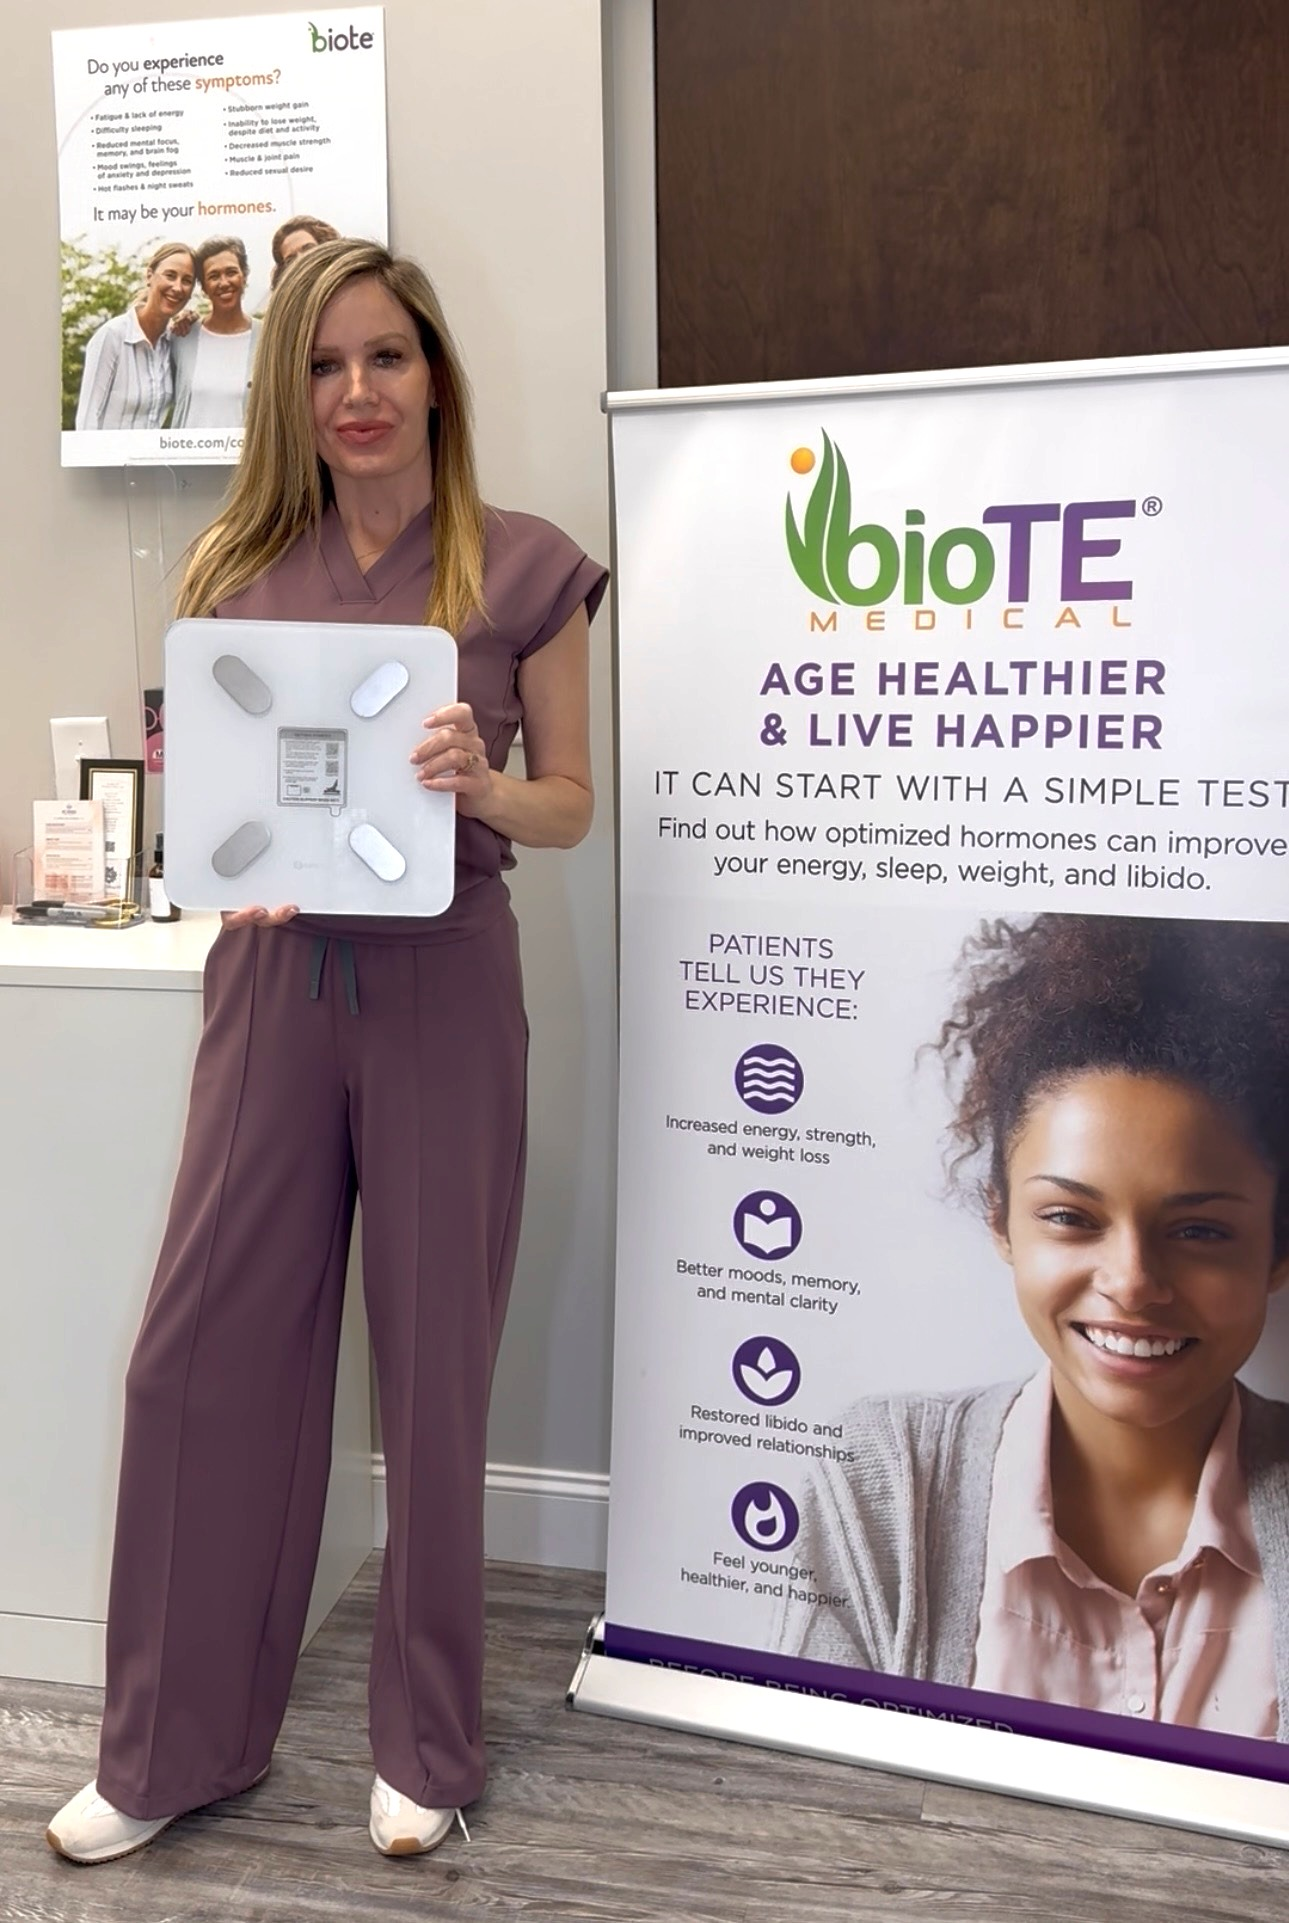
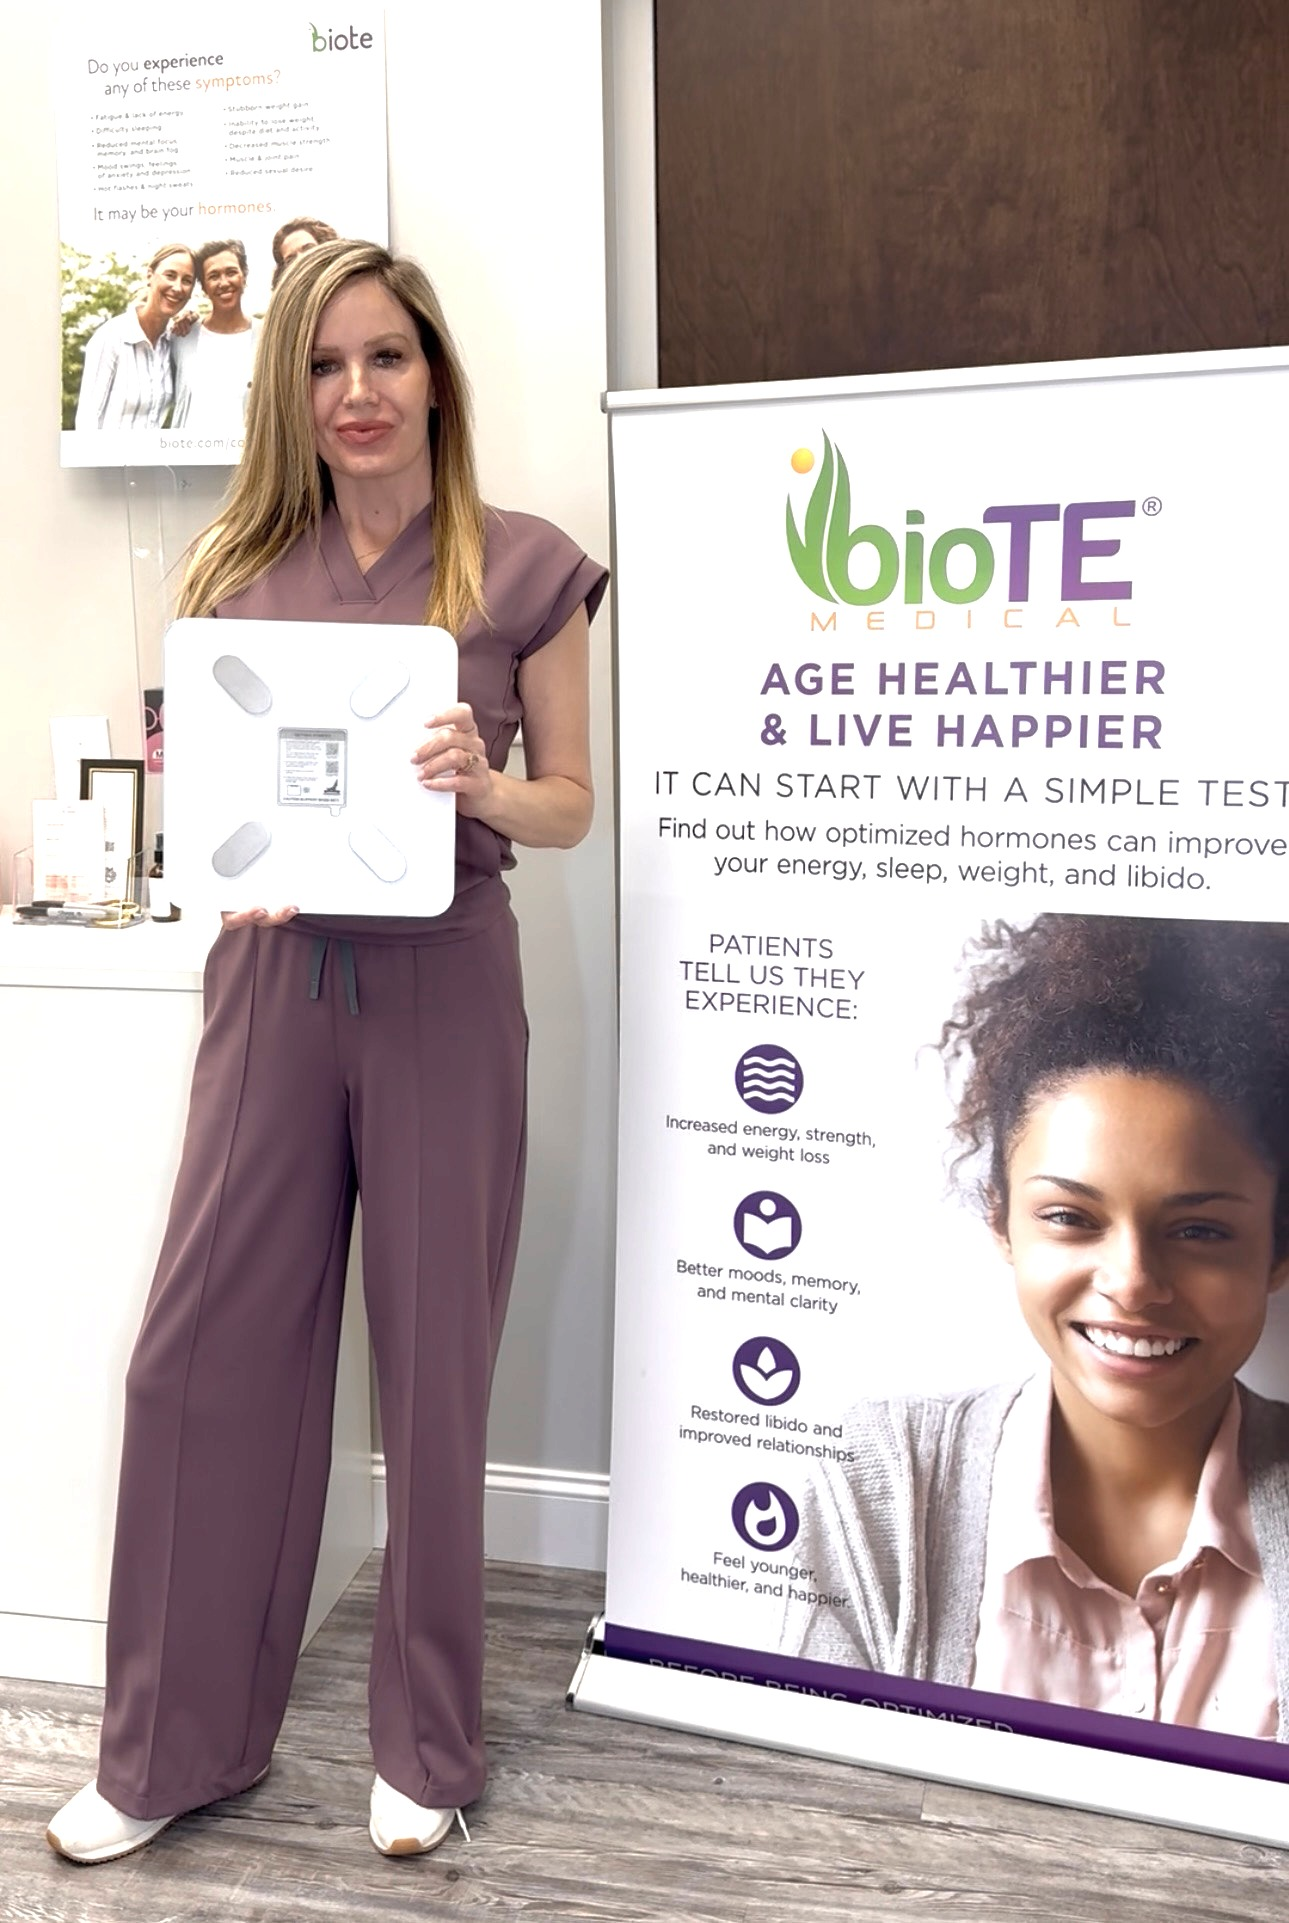
content(services): new IV card photo; brighter Hormone card photo
Card 11 takes the operator's new frame of three clients having IV drips,
cropped 4:5 so the shelf's posters stay out (releases confirmed; no
exception needed). Card 12 is re-derived from its master at a stronger
lift (brightness 1.6). iv-drip-neon.jpg is orphaned and removed.

diff --git a/docs/DECISIONS.md b/docs/DECISIONS.md
@@ -14187,3 +14187,34 @@ the iPhone loop check are still to come.
 - **Consequences:** `radiesse-syringes.jpg` has no other consumer and is
   deleted (git history keeps it). The card's photo is decorative, so no
   alt text changes; no page copy changes.
+
+## 2026-09-30 — IV card gets a new photo; Hormone card brightened (operator direction)
+
+- **Context:** the operator supplied a new picture for the /services "11
+  IV Therapy & Vitamin Support" card (`C:\Amy\pics\button11.heic`,
+  an iPhone HEIC, 5712x4284 with a -90 degree display rotation) and asked
+  for the "12 Hormone Optimization" card to be brighter.
+- **Card 11 screening (full resolution):** three women having IV drips in
+  the medspa's lounge; Amy is not pictured. The operator confirmed all
+  three are clients with website releases on file (the woman in blue
+  scrubs is a client, not staff). The shelf in the doorway carries two
+  Radiesse posters whose sales lines are legible, and a PRP sign.
+- **Decision (11):** a 4:5 crop on the three women that leaves the
+  posters and the sign out (decoded with ffmpeg 9, which reads the HEIC
+  tile grid and applies the rotation; sharp here reads AVIF only; then
+  x 450, y 1950, 2880x3600, resized to 1200x1500, JPEG q92), committed
+  as `iv-drips-three-clients.jpg`. What remains legible: a footwear
+  brand on two slides. The IV bag labels and the shelf's jars are not
+  readable. No exception needed.
+- **Decision (12):** re-derived from the master (`B12.jpg`, single
+  generation) at sharp `modulate({ brightness: 1.6, saturation: 1.05 })`,
+  JPEG q92, same content name (zero code change); up from the 1.28 lift
+  of the earlier entry. Chosen from 1.45 / 1.6 / 1.75 on a side-by-side
+  sheet. The banner was already legible and ships under its recorded
+  constraint-3 override; the lift changes exposure, not what the frame
+  discloses.
+- **Rejected:** the whole-room crop for 11 (the posters' headline stays
+  readable on the card); 1.75 for 12 (the banner and scale go flat white).
+- **Consequences:** `iv-drip-neon.jpg` has no other consumer and is
+  deleted (git history keeps it). Both photos are decorative, so no alt
+  text or copy changes.

diff --git a/docs/CHANGELOG.md b/docs/CHANGELOG.md
@@ -6,6 +6,14 @@ change lives in `docs/DECISIONS.md`; design specs live in
 
 ## Post-launch revision round (`phase-c`)
 
+### 2026-09-30 — /services: new IV card photo, brighter Hormone card
+
+- Card 11 now shows three clients having IV drips in the medspa's
+  lounge, cut 4:5 from a new frame the operator supplied; the crop
+  leaves out the shelf's posters. The old IV photo is removed.
+- Card 12's photo is brighter, re-derived from its master. Same frame,
+  no copy or alt changes. DECISIONS 2026-09-30.
+
 ### 2026-09-30 — The /services Biostimulators card has a new photo of Amy
 
 - Card 03 now shows Amy holding up a syringe beside the neon sign, cut
